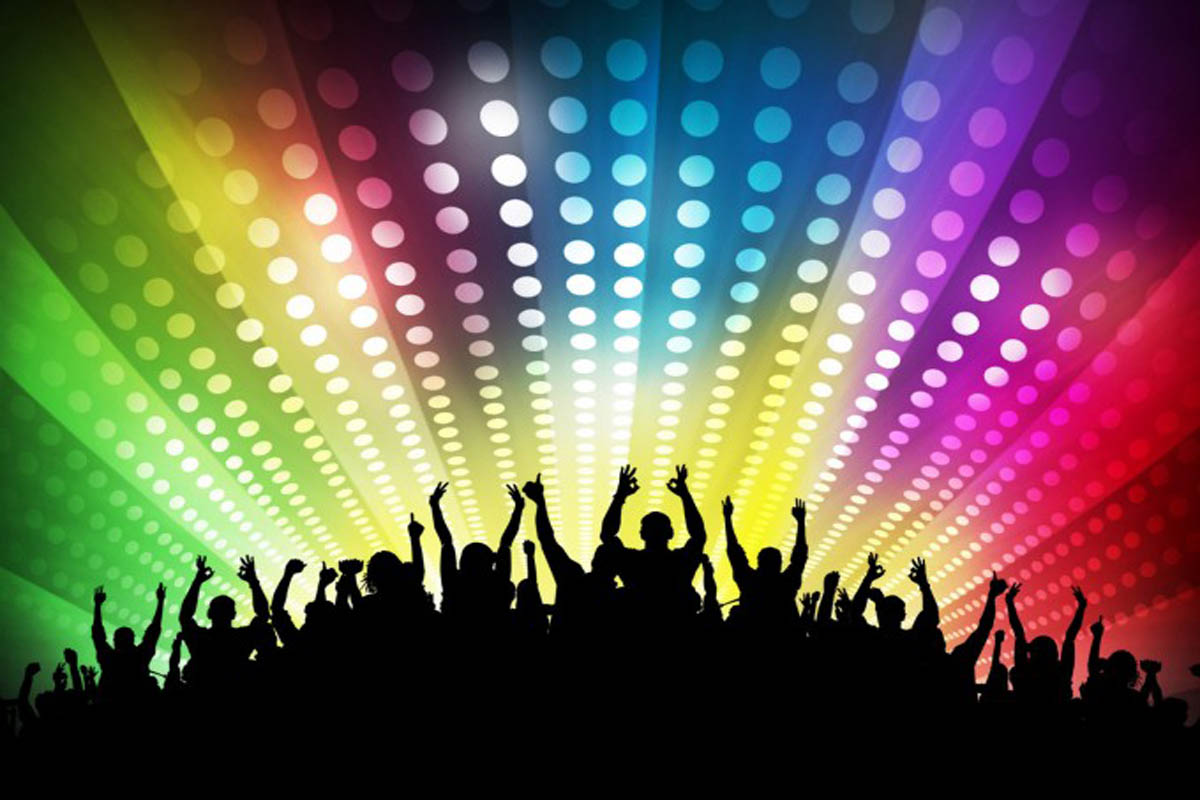
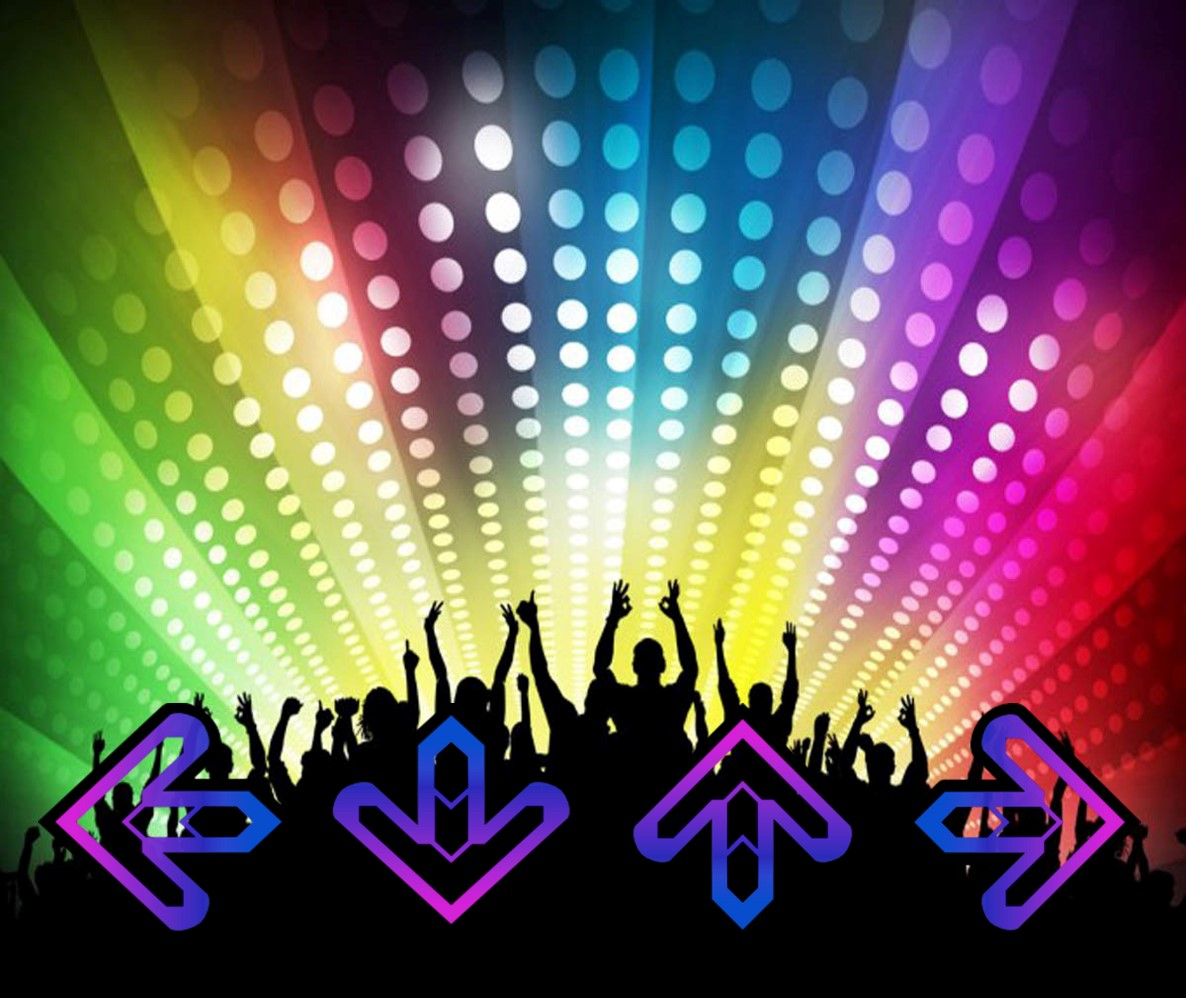
Finished Dance Dance Revolution

diff --git a/src/main/java/general/MainController.java b/src/main/java/general/MainController.java
@@ -27,7 +27,6 @@ public class MainController {
     private static final String GAME_TITLE = "VoogaSalad";
     private Stage gameEngineStage;
     private Gallery gallery;
-    private Level level;
     private GameEditorController gameEditorController;
     private GameEngineController gameEngineController;
     public MainController(Stage stage) throws IOException {
@@ -57,69 +56,13 @@ public class MainController {
         gameEditorController.setOnLoadGame(e -> sendDataToEngine());
     }
 
-    private String testGameEngine(){
-        //FOR TESTING PURPOSES ONLY/
-        Game game = new Game("Dance Dance Revolution Jump");
-        GameObject thirdShyGuy = new GameObject(400, 500, 100, 100, "shyguy.png", new HashMap<>());
-        Player player1 = new Player(thirdShyGuy);
-        game.addPlayer(player1);
-        game.addPlayerToClient(0, player1);
-        thirdShyGuy.setProperty("jumpunlimited", "800");
-        thirdShyGuy.setProperty("gravity", "0.8");
-        thirdShyGuy.setProperty("movespeed", "10");
-        level = new Level(1);
-        level.setTitle(game.getGameName());
-        GameBoundary gameBoundaries = new NoBoundary(700, 675);
-        ScrollType scrollType = new ScrollType("ForcedScrolling", gameBoundaries);
-        scrollType.setScrollSpeed(10);
-        scrollType.addScrollDirection(Direction.UP);
-        level.setScrollType(scrollType);
-        level.setBackgroundImage("Background/ddrbackground.jpg");
-        game.setCurrentLevel(level);
-        level.addPlayer(thirdShyGuy);
-        //  level.addPlayer(fourthShyGuy);
-        GameObject ground = new GameObject(0, 570,700,50,"platform.png", new HashMap<>());
-        ground.setProperty("nonintersectable", "bottom");
-        //Left down up right <- order of arrows from left to right
-        //UNCOMMENT BELOW FOR DEM SPICY DDR
-        /*
-=======
->>>>>>> e52c21951875f5fad8b2120c125ae62d56084812
-        HashMap<String,String> DDRArrowProperties = new HashMap<String,String>();
-        RandomGeneration arrow1 = new RandomGeneration(DDRArrowProperties,150,150,"ddrleftarrow.png",2, 20,20,1234,1234,700,800);
-        RandomGeneration arrow2 = new RandomGeneration(DDRArrowProperties,150,150,"ddrdownarrow.png",2, 190 ,190,1234,1234,500,520);
-        RandomGeneration arrow3 = new RandomGeneration(DDRArrowProperties,150,150,"ddruparrow.png",2, 360,360,1234,1234,300,600);
-        RandomGeneration arrow4 = new RandomGeneration(DDRArrowProperties,150,150,"ddrrightarrow.png",2, 530,530,1234,1234,540,1000);
-        ArrayList<RandomGeneration> asdf = new ArrayList<RandomGeneration>();
-        asdf.add(arrow1);asdf.add(arrow2);asdf.add(arrow3);asdf.add(arrow4);
-        RandomGenFrame frame = new RandomGenFrameY(level,asdf);
-        level.setRandomGenerationFrame(frame);
-<<<<<<< HEAD
-        */
-        //UNCOMMENT BELOW FOR DEM SPICY DOODLE JUMPZ
-        HashMap<String,String> DoodleJumpProperties = new HashMap<>();
-        DoodleJumpProperties.put("bounce", "1000");
-        RandomGeneration platforms = new RandomGeneration(DoodleJumpProperties,150,40,"platform.png", 2, 0,200,1234,1234,400,500);
-        RandomGeneration platforms2 = new RandomGeneration(DoodleJumpProperties,150,40,"platform.png", 2, 200,500,1234,1234,400,500);
-        RandomGeneration platforms3 = new RandomGeneration(DoodleJumpProperties,150,40,"platform.png", 2, 500,550,1234,1234,400,500);
-        ArrayList<RandomGeneration> asdf = new ArrayList<>();
-        asdf.add(platforms);
-        asdf.add(platforms2);
-        asdf.add(platforms3);
-        RandomGenFrame frame = new RandomGenFrameY(level, asdf);
-        level.setRandomGenerationFrame(frame);
-        level.addGameObject(ground);
-        XMLSerializer testSerializer = new XMLSerializer();
-        String xml = testSerializer.serializeGame(game);
-        return xml;
-    }
-
-    private void setUpGameEngineStage(){
+    private void setUpGameEngineStage(Level level){
         gameEngineStage = new Stage();
         GameCoverSplash myCover = new GameCoverSplash(level, this);
         gameEngineStage.setScene(myCover.createSplashScene());
         gameEngineStage.setTitle(myCover.getTitle());
         gameEngineStage.show();
+        //startPlaying();
     }
 
     public void startPlaying(){
@@ -137,13 +80,13 @@ public class MainController {
 	}
 
 	public void launchEngine(String XMLData) {
-		 XMLData = testGameEngine();
+        GameExamples gameExamples = new GameExamples();
+        XMLData = gameExamples.getDanceDanceRevolution();
 		boolean multiplayer = true;
 		boolean isServer = false;
-		// if (gameEngineController.startGame(XMLData) == true && (!multiplayer
-		// || (multiplayer && !isServer))) {
-		if (gameEngineController.startGame(XMLData) == true) {
-			setUpGameEngineStage();
+        Level level = gameEngineController.startGame(XMLData);
+		if (level != null) {
+			setUpGameEngineStage(level);
 		}
 	}
 

diff --git a/src/main/java/general/GameExamples.java b/src/main/java/general/GameExamples.java
@@ -18,6 +18,8 @@ import java.util.List;
  */
 public class GameExamples{
 
+    public static int score = 0;
+
     public String getDoodleJumpXML(){
         Game game = new Game("Doodle Jump");
         GameObject shyGuy = new GameObject(400, 500, 100, 100, "shyguy.png", new HashMap<>());
@@ -52,6 +54,72 @@ public class GameExamples{
         RandomGenFrame frame = new RandomGenFrameY(level, randomGen);
         level.setRandomGenerationFrame(frame);
         level.addGameObject(ground);
+        XMLSerializer testSerializer = new XMLSerializer();
+        String xml = testSerializer.serializeGame(game);
+        return xml;
+    }
+
+    public String getDanceDanceRevolution(){
+        Game game = new Game("Dance Dance Revolution");
+        GameObject one = new GameObject(10, 550, 10, 10, "emptyimage.png", new HashMap<>());
+        GameObject two = new GameObject(180, 550, 10, 10, "emptyimage.png", new HashMap<>());
+        GameObject three = new GameObject(350, 550, 10, 10, "emptyimage.png", new HashMap<>());
+        GameObject four = new GameObject(520, 550, 10, 10, "emptyimage.png", new HashMap<>());
+
+        ProjectileProperties projectileProperties = new ProjectileProperties("emptyimage.png", 30, 30, Direction.RIGHT, 100, 30, 0, 1);
+        one.setProjectileProperties(projectileProperties);
+        two.setProjectileProperties(projectileProperties);
+        three.setProjectileProperties(projectileProperties);
+        four.setProjectileProperties(projectileProperties);
+        one.setProperty("movespeed","0");
+        two.setProperty("movespeed","0");
+        three.setProperty("movespeed","0");
+        four.setProperty("movespeed","0");
+
+        Player player1 = new Player(one);
+        Player player2 = new Player(two);
+        Player player3 = new Player(three);
+        Player player4 = new Player(four);
+        player1.setControl(KeyCode.A, "shoot");
+        player2.setControl(KeyCode.S, "shoot");
+        player3.setControl(KeyCode.D, "shoot");
+        player4.setControl(KeyCode.F, "shoot");
+
+        game.addPlayer(player1);
+        game.addPlayer(player2);
+        game.addPlayer(player3);
+        game.addPlayer(player4);
+        game.addPlayerToClient(0, player1);
+        game.addPlayerToClient(0, player2);
+        game.addPlayerToClient(0, player3);
+        game.addPlayerToClient(0, player4);
+
+        Level level = new Level(1);
+        GameBoundary gameBoundaries = new NoBoundary(700, 675);
+        ScrollType scrollType = new ScrollType("ForcedScrolling", gameBoundaries);
+        scrollType.setScrollSpeed(10);
+        scrollType.addScrollDirection(Direction.UP);
+        level.setScrollType(scrollType);
+        level.setBackgroundImage("Background/ddrbackground.jpg");
+        game.setCurrentLevel(level);
+        level.addPlayer(one);
+        level.addPlayer(two);
+        level.addPlayer(three);
+        level.addPlayer(four);
+
+        HashMap<String,String> DDRArrowProperties = new HashMap<String,String>();
+        DDRArrowProperties.put("points", "50");
+        RandomGeneration arrow1 = new RandomGeneration(DDRArrowProperties,150,150,"ddrleftarrow.png",2, 20,20,1234,1234,700,800);
+        RandomGeneration arrow2 = new RandomGeneration(DDRArrowProperties,150,150,"ddrdownarrow.png",2, 190 ,190,1234,1234,500,520);
+        RandomGeneration arrow3 = new RandomGeneration(DDRArrowProperties,150,150,"ddruparrow.png",2, 360,360,1234,1234,300,600);
+        RandomGeneration arrow4 = new RandomGeneration(DDRArrowProperties,150,150,"ddrrightarrow.png",2, 530,530,1234,1234,540,1000);
+        ArrayList<RandomGeneration> randomGenerations = new ArrayList<RandomGeneration>();
+        randomGenerations.add(arrow1);
+        randomGenerations.add(arrow2);
+        randomGenerations.add(arrow3);
+        randomGenerations.add(arrow4);
+        RandomGenFrame frame = new RandomGenFrameY(level,randomGenerations);
+        level.setRandomGenerationFrame(frame);
         XMLSerializer testSerializer = new XMLSerializer();
         String xml = testSerializer.serializeGame(game);
         return xml;

diff --git a/src/main/java/gameengine/controller/GameEngineController.java b/src/main/java/gameengine/controller/GameEngineController.java
@@ -30,16 +30,17 @@ public class GameEngineController implements CommandInterface {
 		serverName = "localhost";
 		serializer = new XMLSerializer();
 	}
-	public boolean startGame(String xmlData) {
-		Game currentGame = serializer.getGameFromString(xmlData);
+	public Level startGame(String xmlData) {
+        Game currentGame = serializer.getGameFromString(xmlData);
 		if (currentGame.getCurrentLevel() == null || currentGame.getCurrentLevel().getPlayers().isEmpty()) {
 			Alert alert = new Alert(Alert.AlertType.INFORMATION);
 			alert.setHeaderText("Cannot start game.");
 			alert.setContentText("You must create a level with a main character to start a game.");
 			alert.showAndWait();
-			return false;
+			return null;
 		}
-		if (hostGame) {
+        currentGame.getCurrentLevel().setTitle(currentGame.getGameName());
+        if (hostGame) {
 			Thread serverThread = new Thread() {
 				public void run() {
 					startServerGame(currentGame);
@@ -48,7 +49,7 @@ public class GameEngineController implements CommandInterface {
 			serverThread.start();
 		}
 		startClientGame(currentGame.getClientMappings());
-		return true;
+		return currentGame.getCurrentLevel();
 	}
 	public void startServerGame(Game currentGame) {
 		backend = new GameEngineBackend(serverName);

diff --git a/src/main/java/gameengine/controller/GameEngineBackend.java b/src/main/java/gameengine/controller/GameEngineBackend.java
@@ -82,9 +82,7 @@ public class GameEngineBackend implements RGInterface, GameHandler, RuleActionHa
 		if(currLevel.getRandomGenRules().size() > 0) {
             randomlyGenerateFrames();
         }
-		
-		System.out.println("qqqqqq");
-		if(toolbarHBox != null){
+        if(toolbarHBox != null){
 			System.out.println("sadfasdfsadf");
 			toolbarHBox.toFront();
 		}
@@ -236,7 +234,7 @@ public class GameEngineBackend implements RGInterface, GameHandler, RuleActionHa
 					itr.remove();
 				}
 			} else {
-				if (projectile.getYDistanceMoved() >= properties.getRange()) {
+				if (Math.abs(projectile.getYDistanceMoved()) >= properties.getRange()) {
 					removeObject(projectile);
 					itr.remove();
 				}

diff --git a/src/main/java/gameengine/model/rules/collisionrules/ApplyScoreRule.java b/src/main/java/gameengine/model/rules/collisionrules/ApplyScoreRule.java
@@ -2,11 +2,14 @@ package gameengine.model.rules.collisionrules;
 
 import gameengine.controller.interfaces.RuleActionHandler;
 
+import general.GameExamples;
 import objects.GameObject;
 
 public class ApplyScoreRule implements CollisionRule{
 
     public void applyRule(RuleActionHandler handler, GameObject mainChar, GameObject obj) {
             handler.modifyScore(Integer.parseInt(obj.getProperty("points")));
+            GameExamples.score += Integer.parseInt(obj.getProperty("points"));
+            System.out.println("score: " + GameExamples.score);
     }
 }

diff --git a/src/main/java/gameengine/view/GameEngineUI.java b/src/main/java/gameengine/view/GameEngineUI.java
@@ -143,7 +143,6 @@ public class GameEngineUI implements UDPHandler{
 		for(KeyCode key : keyPressed.keySet()){
 			if(keyPressed.get(key).equals(true)){
 				Player player = playerMappings.get(key);
-
 				keyMappings.get(key).invoke(clientMain, player.getMainChar(), Double.parseDouble(player.getMainChar().getProperty("movespeed")));
 			}
 		}
